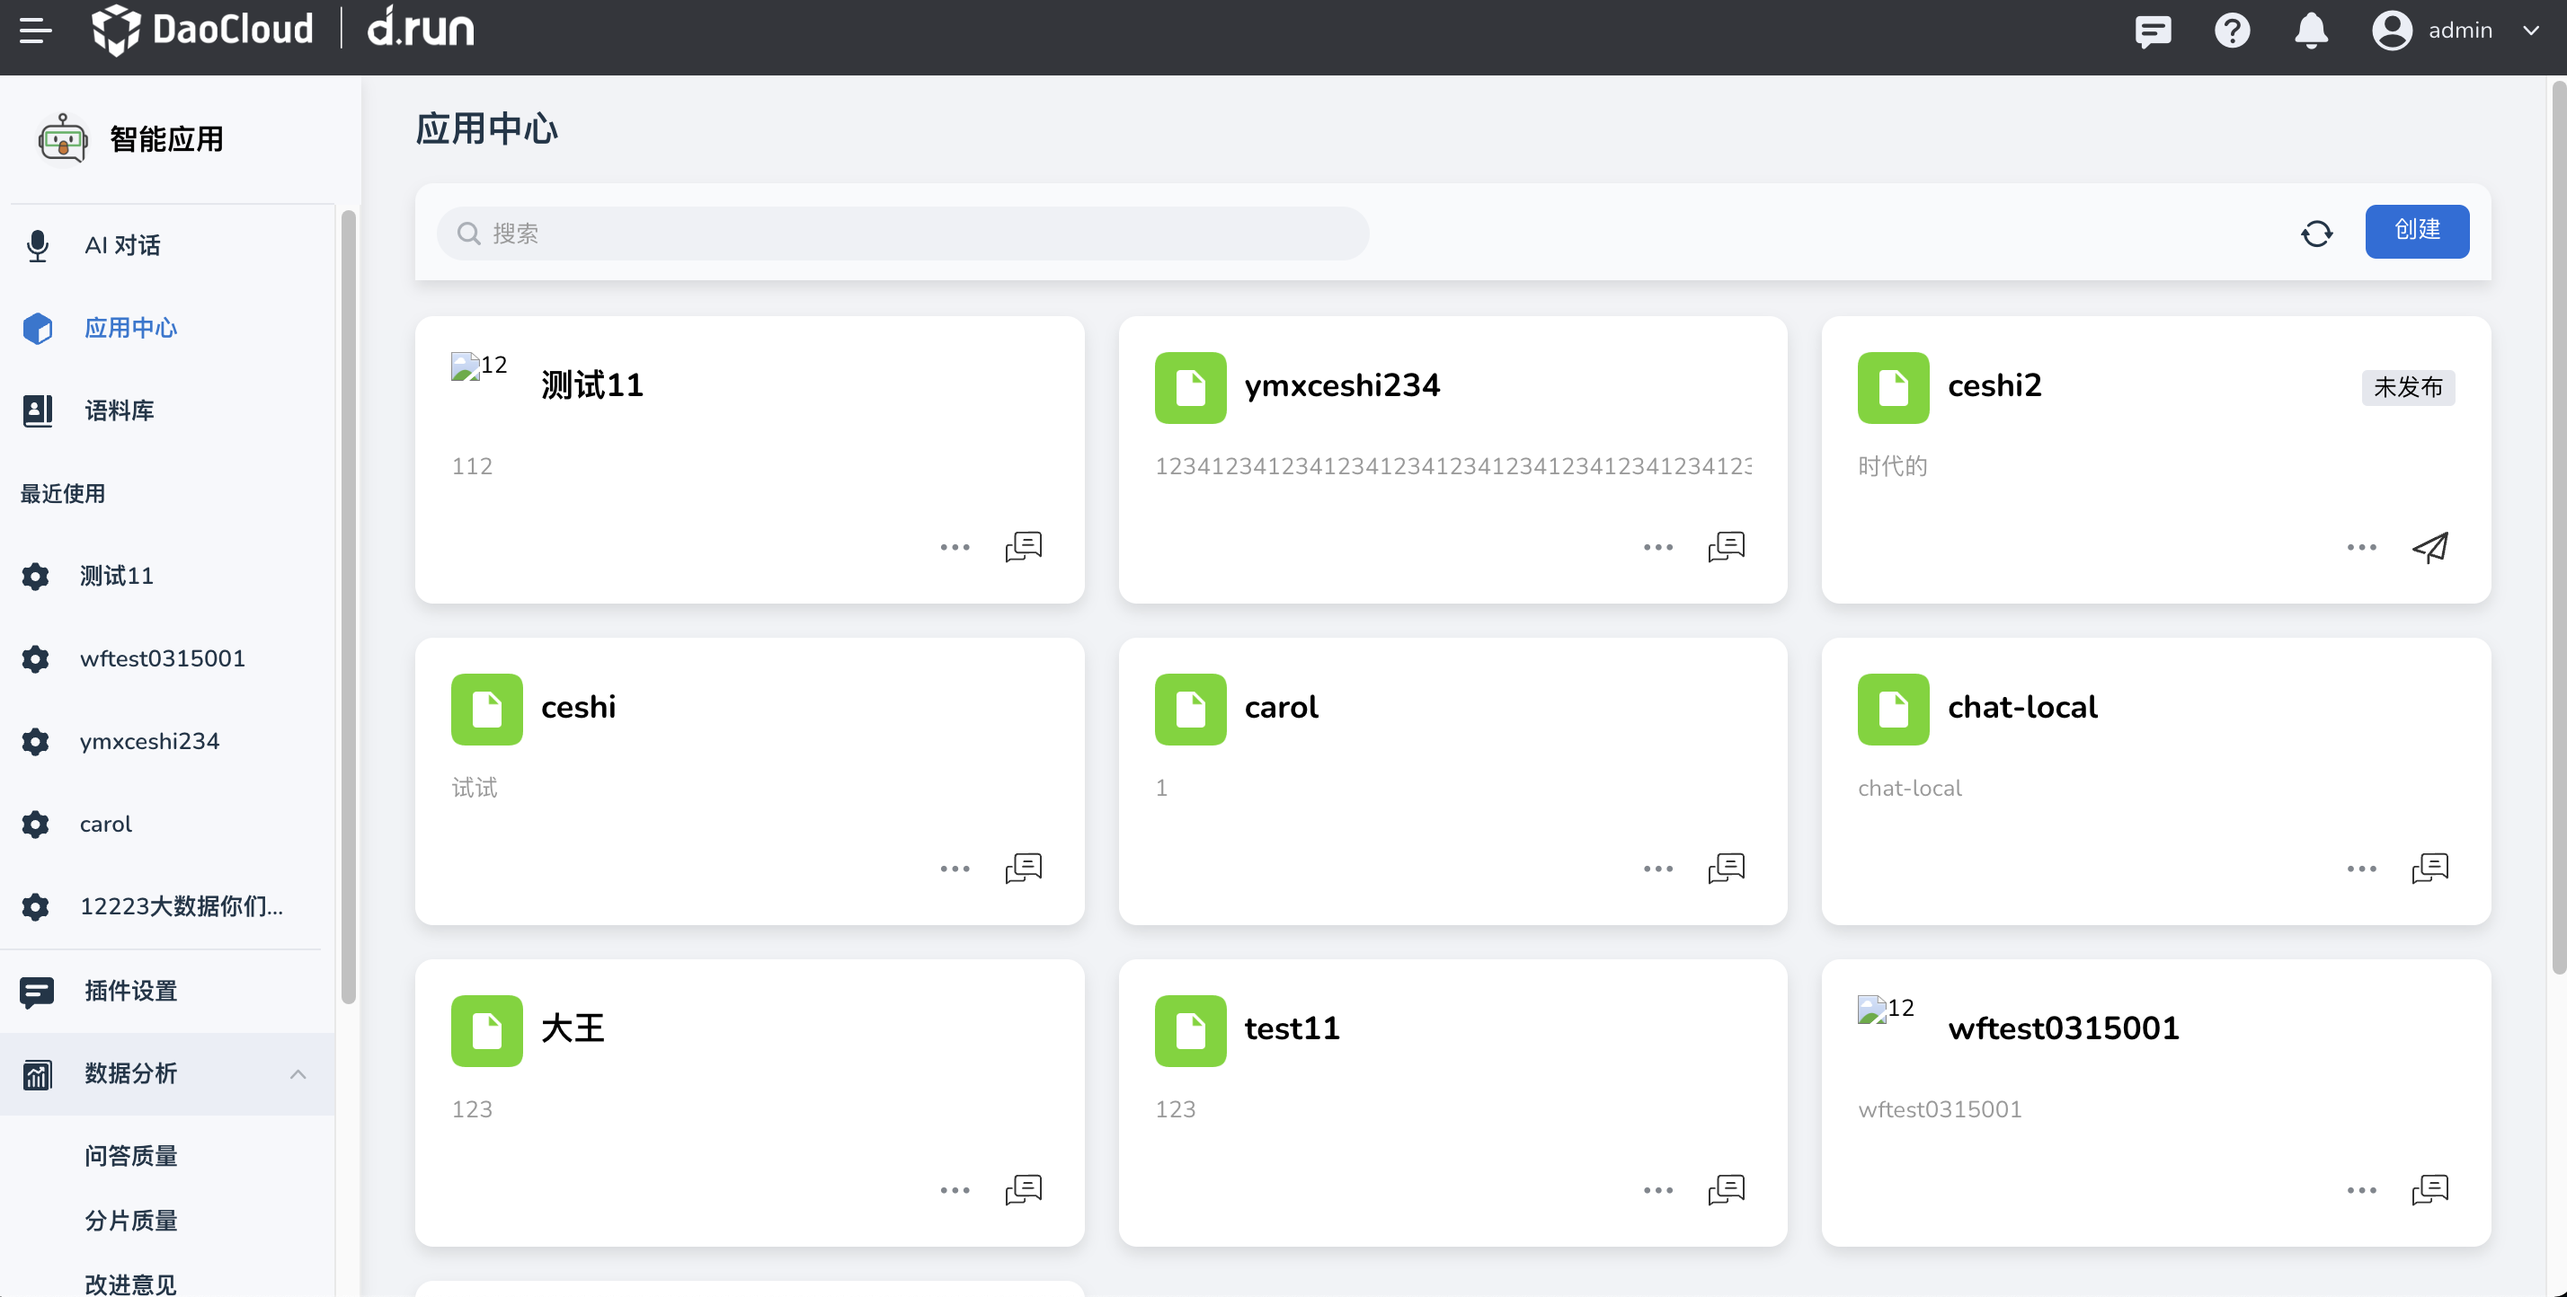
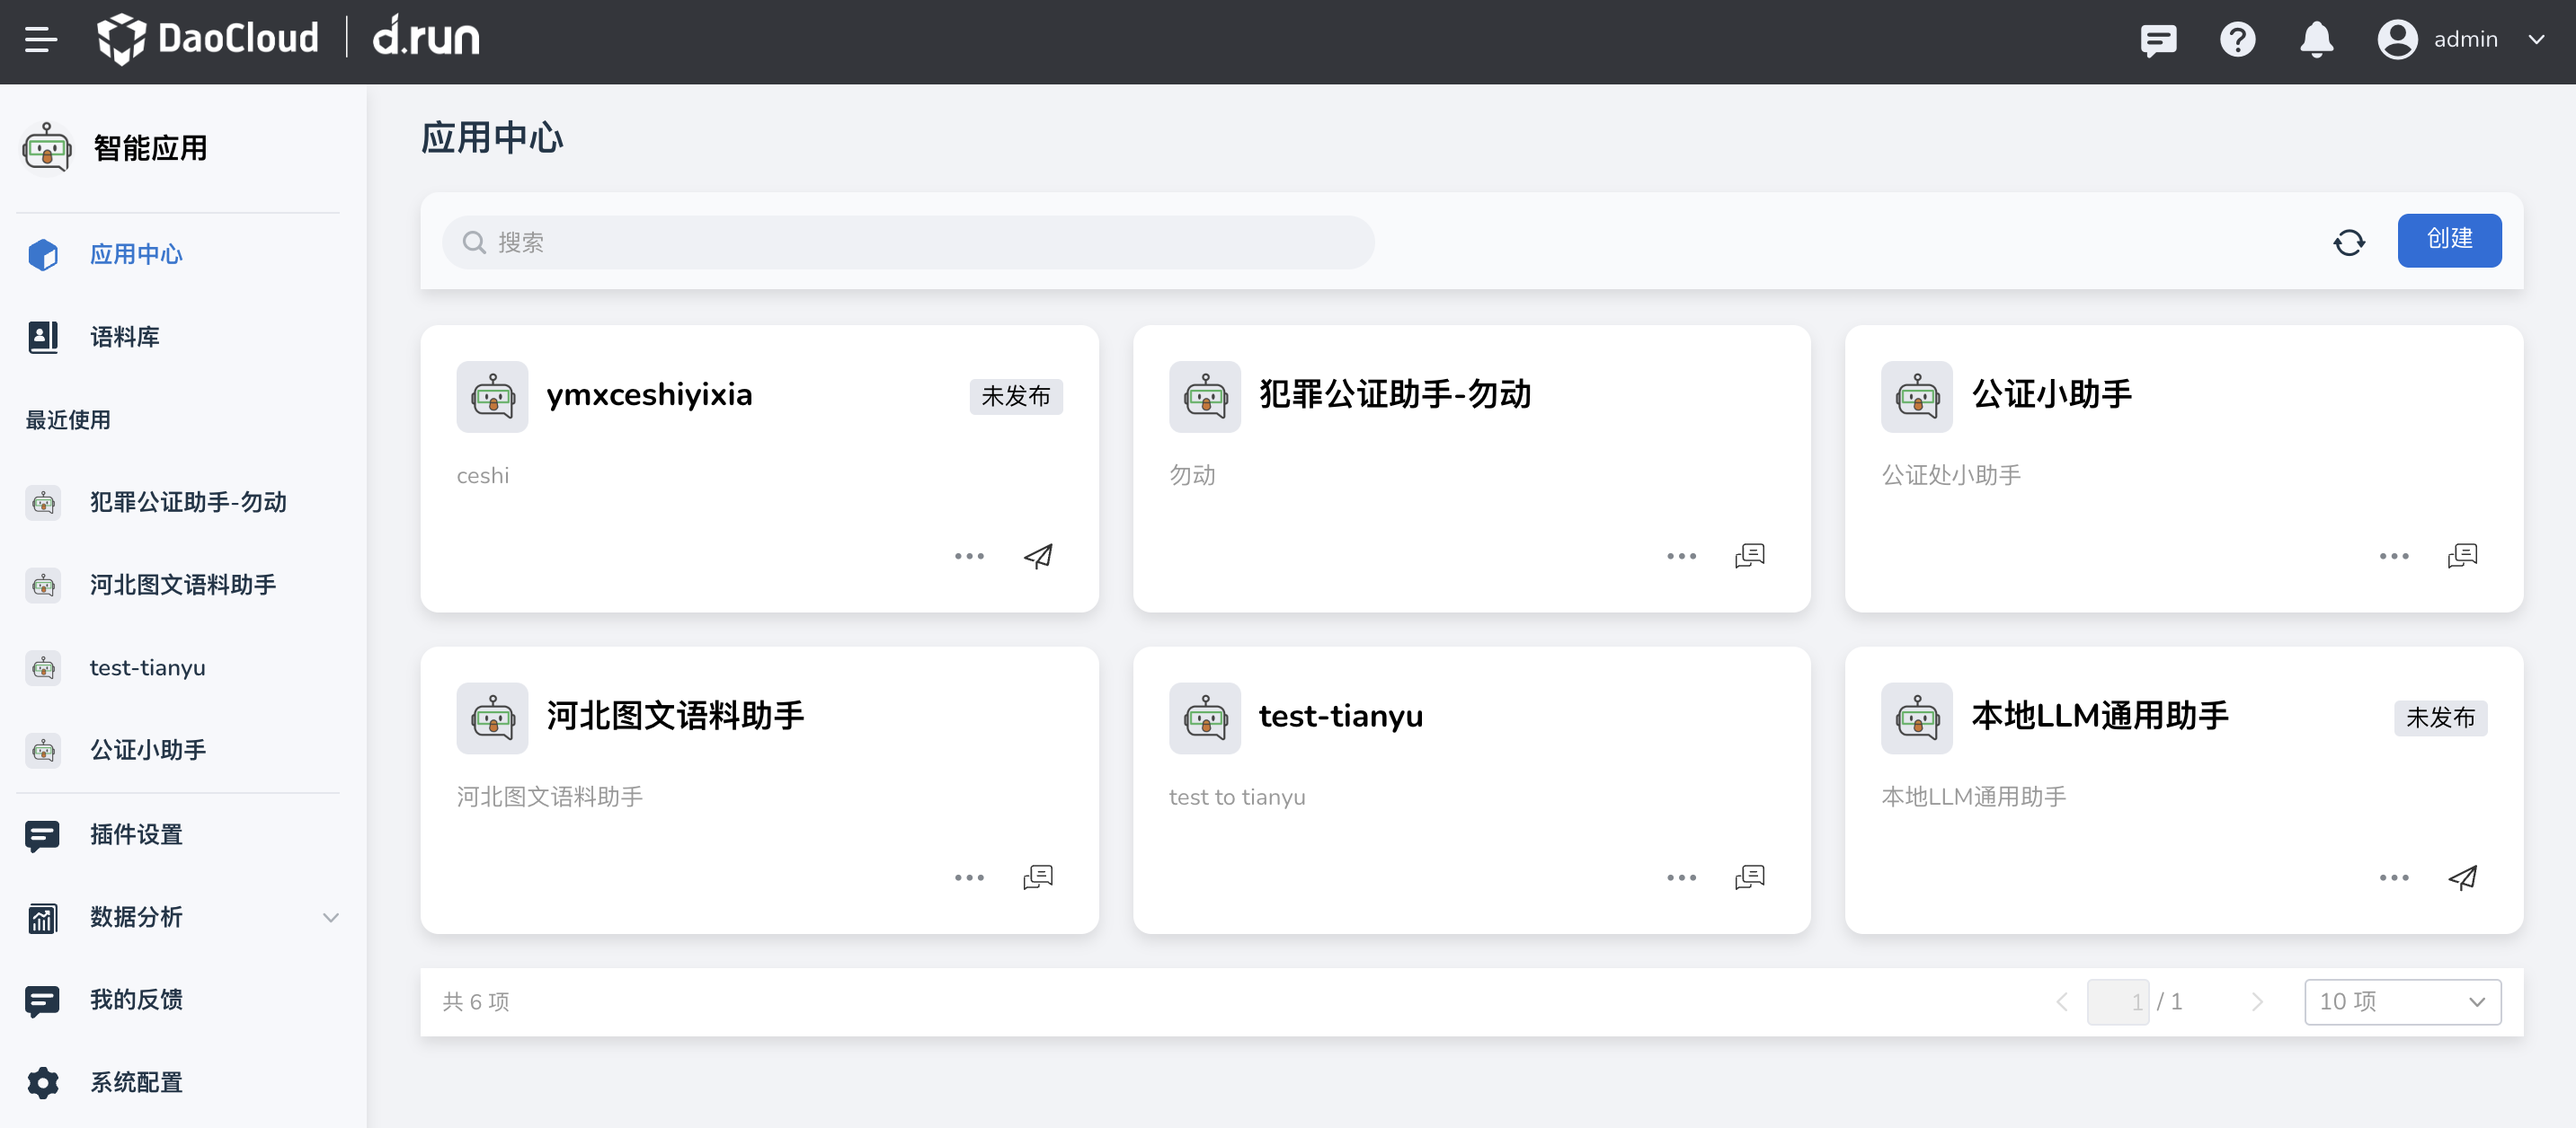
update with the new ui

diff --git a/docs/zh/docs/dak/user-guide/app-center/conversation.md b/docs/zh/docs/dak/user-guide/app-center/conversation.md
@@ -1,22 +1,25 @@
-# AI 对话
+# 应用对话说明
 
-**AI 对话** 是 ChatGPT 出现后最常见的获取资讯方式。
-在 d.run 中，您可以关联自己的语料库后自由提问，可以随时查阅历史记录，另外导航栏还列出了最近使用的 5 组聊天记录。
+**对话** 是 ChatGPT 出现后最常见的获取资讯方式。
+在 d.run 中，一个应用被发布之后，即可使用对话功能。
+您可以在对话中关联语料库后自由提问，可以随时查阅历史记录，另外导航栏还列出了最近使用的 3 组对话。
 
 ## 日常对话
 
-1. 在左侧导航栏，点击 **AI 对话** -> **新建对话** ，选择已发布的应用。
+1. 在左侧导航栏，点击 **应用中心** ，在已发布应用的右下角，点击对话图标。
+
+    ![点击对话图标](../../images/chat01.png)
 
 2. 在对话框中输入问题，点击 **发送** ，或敲击回车键，进行对话。对话框的输入字符限制为 6000 个字符。
 
+    ![聊天](../../images/chat02.png)
+
 ## 对话管理
 
-![manage](./images/manage.png)
+![manage](../images/manage.png)
 
-- **置顶** 、 **重命名** 和 **删除** ：在对话的历史记录窗格中，点击某一条对话右侧的 **⋮** ，可以置顶、重命名和删除对话
-
+- **置顶** 、 **重命名** 和 **删除** ：在历史记录窗格中，点击某一条对话右侧的 **⋮** ，可以置顶、重命名和删除对话
 - **清空** ：在对话页面左上角，点击 🧹 图标，可以 **清空** 对话
-
 - **关联语料库** ：在输入框左下角，点击 📖 图标，可以关联语料库
 
     语料库的选择： **聊天应用** 会在选中的语料库中去匹配最相似的语料作为参考，回答您的问题。
@@ -30,12 +33,10 @@
 
 ## 几个实用图标
 
-![page-function](./images/page-function.png)
+![page-function](../images/page-function.png)
 
 - **评价** ：可以点赞 👍 或点踩 👎 某条回答，取决于您对回答内容是否满意。
-
 - **复制** ：可以复制某条回答。
-
 - **重置** ：可以重置、重新生成某一条回答。
 
     !!! info "随机度"
@@ -46,5 +47,4 @@
         如果要求回答的准确度高，可以降低随机度，这样聊天助手每次生成的结果会接近一致。
 
 - **删除** ：点击垃圾桶 :material-delete: 图标，可以删除某条回答，此后在聊天助手上下文对话时，将不会对删除的对话有记忆。
-
 - **改进意见** ：点击某条回答的最后一个图标 :bookmark_tabs:，可以提交反馈，根据聊天助手的回答结果好坏，在反馈中提出反馈意见。

diff --git a/docs/zh/docs/dak/user-guide/app-center/create-app.md b/docs/zh/docs/dak/user-guide/app-center/create-app.md
@@ -9,7 +9,7 @@ hide:
 
 1. 在 **应用中心** 页面中，点击 **创建** 按钮。
 
-    ![应用中心](images/app-center.png)
+    ![应用中心](../../images/app-center.png)
 
 2. 填写应用基础信息
 
